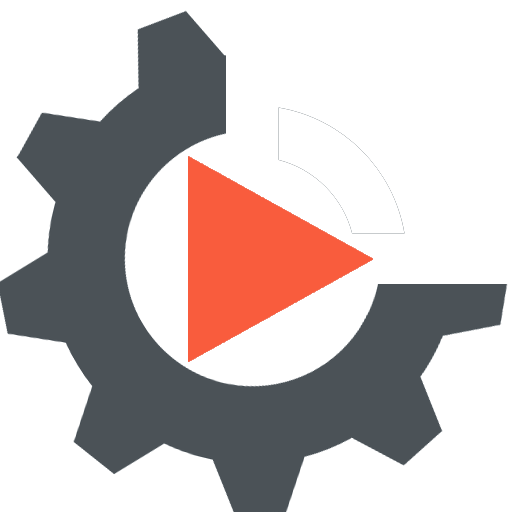
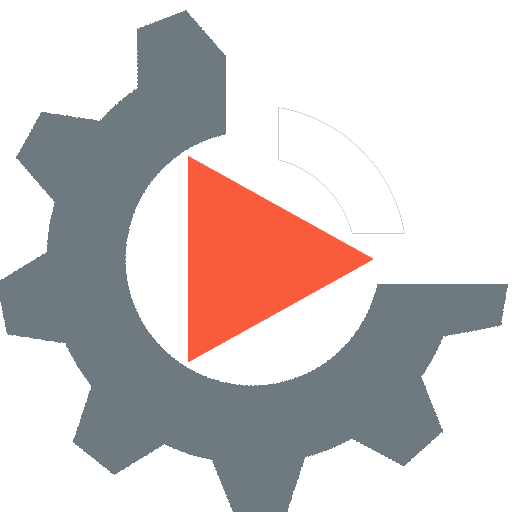
edited all cog imgs and button's animation is functional

diff --git a/carousel.js b/carousel.js
@@ -102,34 +102,48 @@ $(function() {
     } else {
       $('.desktopChat').css('background-color', '#10232e');
       $('.desktopIDE').css('background-color', '#f95c3d');
+      // $buttonBoolean = false;
       // alert("Outside chatlioWidgetPlaceholder");
     }
   });
 });
 
 
+var buttonBoolean = true;
 
 function excButton(){
-  // function cogAnimation1(){
-    $('.exe_button_default').hide();
-    $('.exe_button_1').fadeIn(800, function(){
-      $('.exe_button_1').fadeOut(800);
-      cogAnimation2();
-    });
-  // }
-  function cogAnimation2(){
-    $('.exe_button_2').fadeIn(800, function(){
-      $('.exe_button_2').fadeOut(800);
-      cogAnimation3();
-    });
-  }
-  function cogAnimation3(){
-    $('.exe_button_3').fadeIn(800, function(){
-      $('.exe_button_3').fadeOut(800);
-      excButton();
-    });
+
+  if (buttonBoolean === true){
+      $('.exe_button_default').hide();
+      $('.exe_button_1').fadeIn(700, function(){
+        $('.exe_button_1').fadeOut(700);
+        cogAnimation2();
+      });
+    function cogAnimation2(){
+      $('.exe_button_2').fadeIn(700, function(){
+        $('.exe_button_2').fadeOut(700);
+        cogAnimation3();
+      });
+    }
+    function cogAnimation3(){
+      $('.exe_button_3').fadeIn(700, function(){
+        $('.exe_button_3').fadeOut(700);
+        excButton();
+      });
+    }
+  } else {
+    buttonBoolean = true;
   }
 }
+
+$('.desktopIDE').click(function(){
+  buttonBoolean = false;
+  $('.exe_button_default').show();
+
+});
+
+
+
 // function cogAnimation4(){
 //   $('.exe_button_3').fadeOut(100, function(){
 //     $('.exe_button_1').fadeIn(1000);
